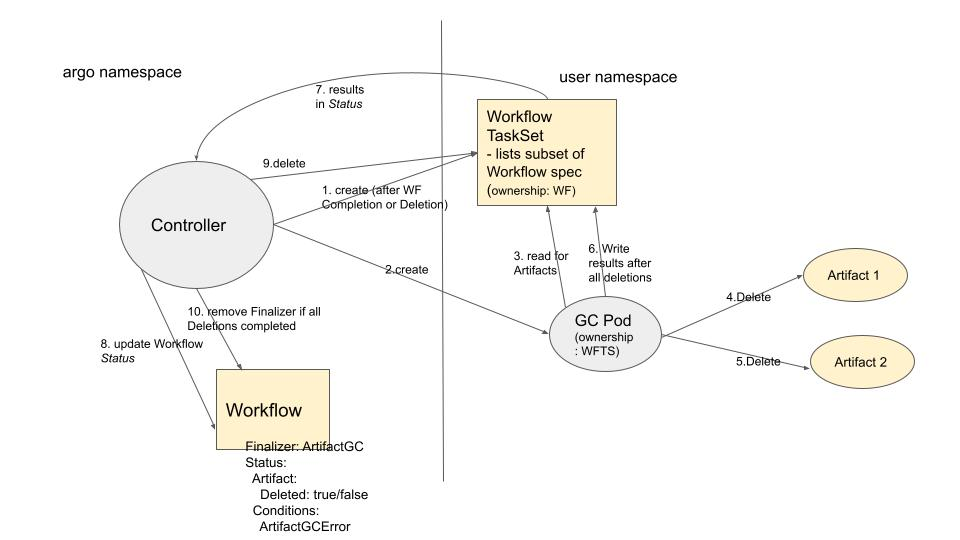
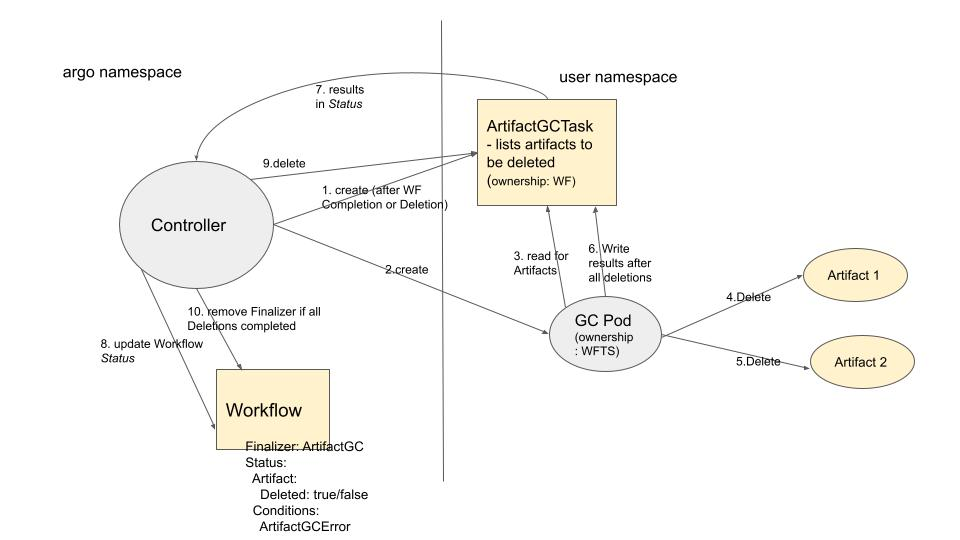
docs: Update Artifact GC Proposal to include new CRD type (#9185)
* docs: artifact GC proposal revision to include new CRD type

* docs: adding Summary ADR statements to proposal

* fix: proper nouns

* fix: empty commit

* docs: updates

* fix: add 'metadata' to dictionary

Changed region(s): [[0.5, 0.2074, 0.625, 0.3852]]

diff --git a/docs/proposals/artifact-gc-proposal.md b/docs/proposals/artifact-gc-proposal.md
@@ -10,14 +10,14 @@ Artifacts can be specified for Garbage Collection at different stages: `OnWorkfl
 
 ### Workflow Spec changes
 
-1. `WorkflowSpec` has an `ArtifactGCStrategy`, which is the default for all artifacts: can be `OnWorkflowCompletion`, `OnWorkflowDeletion`, `OnWorkflowSuccess`, `OnWorkflowFailure`, or `Never`
-2. Artifact has an `ArtifactGCStrategy` (only really applies to Output Artifacts), which can override the setting for `WorkflowSpec`
-3. `WorkflowSpec` can add specification of Service Account and/or Annotations to be used for the Garbage Collection pods, to enable their access to the storage. One Service Account and/or Annotation should be specified to apply to all artifacts.
+1. `WorkflowSpec` has an `ArtifactGC` structure, which consists of an `ArtifactGCStrategy`, as well as the optional designation of a `ServiceAccount` and Pod metadata (labels and annotations) to be used by the Pod doing the deletion. The `ArtifactGCStrategy` can be set to `OnWorkflowCompletion`, `OnWorkflowDeletion`, `OnWorkflowSuccess`, `OnWorkflowFailure`, or `Never`
+2. Artifact has an `ArtifactGC` section which can be used to override the Workflow level.
 
 ### Workflow Status changes
 
 1. Artifact has a boolean `Deleted` flag
 2. `WorkflowStatus.Conditions` can be set to `ArtifactGCError`
+3. `WorkflowStatus` can include a new field `ArtGCStatus` which holds additional information to keep track of the state of Artifact Garbage Collection.
 
 ### How it will work
 
@@ -27,9 +27,9 @@ For each `ArtifactGCStrategy` the Controller will execute one Pod that runs in t
 
 Since `OnWorkflowSuccess` happens at the same time as `OnWorkflowCompletion` and `OnWorkflowFailure` also happens at the same time as `OnWorkflowCompletion`, we can consider consolidating these GC Strategies together.
 
-We will use one or more `WorkflowTaskSets` to specify the Templates (containing Artifacts), which the GC Pod will read and then write Status to (note individual artifacts have individual statuses). The Controller will read the Status and reflect that in the Workflow Status. The Controller will deem the `WorkflowTaskSets` ready to read once the Pod has completed (in success or failure).
+We will have a new CRD type called `ArtifactGCTask` and use one or more of them to specify the Artifacts which the GC Pod will read and then write Status to (note individual artifacts have individual statuses). The Controller will read the Status and reflect that in the Workflow Status. The Controller will deem the `ArtifactGCTasks` ready to read once the Pod has completed (in success or failure).
 
-Once the GC Pod has completed and the Workflow status has been persisted, assuming the Pod completed with Success, the Controller can delete the `WorkflowTaskSets`, which will cause the GC Pod to also get deleted as it will be "owned" by the `WorkflowTaskSets`.
+Once the GC Pod has completed and the Workflow status has been persisted, assuming the Pod completed with Success, the Controller can delete the `ArtifactGCTasks`, which will cause the GC Pod to also get deleted as it will be "owned" by the `ArtifactGCTasks`.
 
 The Workflow will have a Finalizer on it to prevent it from being deleted until Artifact GC has occurred. Once all deletions for all GC Strategies have occurred, the Controller will remove the Finalizer.
 
@@ -37,7 +37,7 @@ The Workflow will have a Finalizer on it to prevent it from being deleted until 
 
 If a deletion fails, the Pod will retry a few times through exponential back off. Note: it will not be considered a failure if the key does not exist - the principal of idempotence will allow this (i.e. if a Pod were to get evicted and then re-run it should be okay if some artifacts were previously deleted).
 
-Once it retries a few times, if it didn't succeed, it will end in a "Failed" state. The user will manually need to delete the `WorkflowTaskSets` (which will delete the GC Pod), and remove the Finalizer on the Workflow.
+Once it retries a few times, if it didn't succeed, it will end in a "Failed" state. The user will manually need to delete the `ArtifactGCTasks` (which will delete the GC Pod), and remove the Finalizer on the Workflow.
 
 The Failure will be reflected in both the Workflow Conditions as well as as a Kubernetes Event (and the Artifacts that failed will have "Deleted"=false).
 
@@ -51,7 +51,7 @@ The [POC](https://github.com/argoproj/argo-workflows/pull/8530) that was done, w
 
 This option has these benefits:
 
-- simpler in that the Pod doesn't require any additional Object to report status (e.g. `WorkflowTaskSet`) because it simply succeeds or fails based on its exit code (whereas in Option 2 the Pod needs to report individual failure statuses for each artifact)
+- simpler in that the Pod doesn't require any additional Object to report status (e.g. `ArtifactGCTask`) because it simply succeeds or fails based on its exit code (whereas in Option 2 the Pod needs to report individual failure statuses for each artifact)
 - could have a very minimal Service Account which provides access to just that one artifact's location
 
 and these drawbacks:
@@ -60,9 +60,15 @@ and these drawbacks:
 - a Workflow with thousands of artifacts causes thousands of Pods to get executed, which could overwhelm kube-scheduler and kube-apiserver.
 - if we delay the Artifact GC Pods by giving them a lower priority than the Workflow Pods, users will not get their artifacts deleted when they expect and may log bugs
 
+Summarizing ADR statement:
+"In the context of Artifact Garbage Collection, facing whether to use a separate Pod for every artifact or not, we decided not to, to achieve faster garbage collection and reduced load on K8S, accepting that we will require a new CRD type."
+
 #### Service Account/IAM roles
 
-We considered some alternatives for how to specify Service Account and/or Annotations, which are applied to give the GC Pod access (slide 12). We will have them specify this information in a new part of the spec that's specific to the Artifact GC Pod (and applies to all artifacts). Other options considered involve allowing users to specify Service Accounts/Annotations on the template level (which could provide more granular security per pod), but Option 2 is preferred in order to reduce the complexity of the code and reduce the potential number of Pods running.
+We considered some alternatives for how to specify Service Account and/or Annotations, which are applied to give the GC Pod access (slide 12). We will have them specify this information in a new `ArtifactGC` section of the spec that lives on the Workflow level but can be overridden on the Artifact level (option 3 from slide). Another option considered was to just allow specification on the Workflow level (option 2 from slide) so as to reduce the complexity of the code and reduce the potential number of Pods running, but Option 3 was selected in the end to maximize flexibility.
+
+Summarizing ADR statement:
+"In the context of Artifact Garbage Collection, facing the question of how users should specify Service Account and annotations, we decided to give them the option to specify them on the Workflow level and/or override them on the Artifact level, to maximize flexibility for user needs, accepting that the code will be more complicated, and sometimes there will be many Pods running."
 
 ### MVP vs post-MVP
 
@@ -79,4 +85,4 @@ We can reject the Workflow during validation if `ArtifactGC` is configured along
 Need to clarify certain things in our documentation:
 
 1. Users need to know that if they don't name their artifacts with unique keys, they risk the same key being deleted by one Workflow and created by another at the same time. One recommendation is to parametrize the key, e.g. `{{workflow.uid}}/hello.txt`.
-2. Requirement to specify Service Account or Annotation for `ArtifactGC` specifically if they are needed (we won't fall back to default Workflow SA/annotations). Also, the Service Account needs to either be bound to the "agent" role or otherwise allow the same access to `WorkflowTaskSets`.
+2. Requirement to specify Service Account or Annotation for `ArtifactGC` specifically if they are needed (we won't fall back to default Workflow SA/annotations). Also, the Service Account needs to either be bound to the "agent" role or otherwise allow the same access to `ArtifactGCTasks`.
